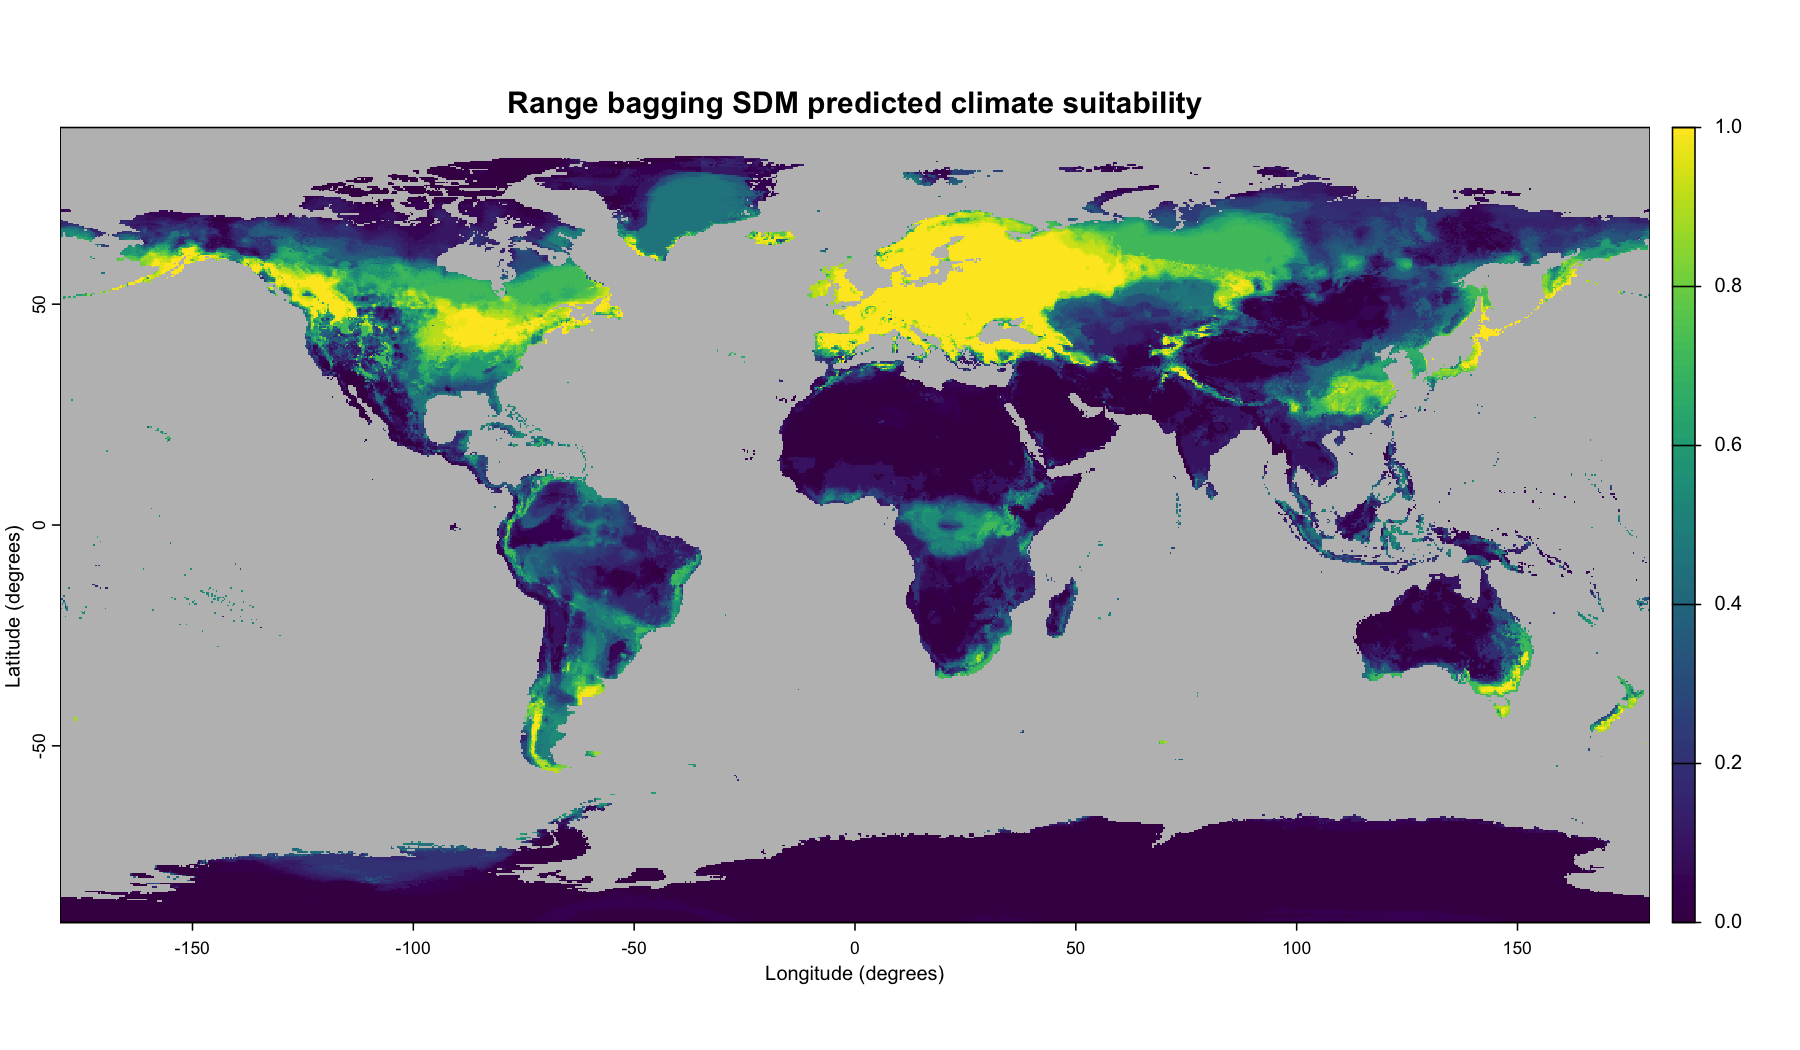
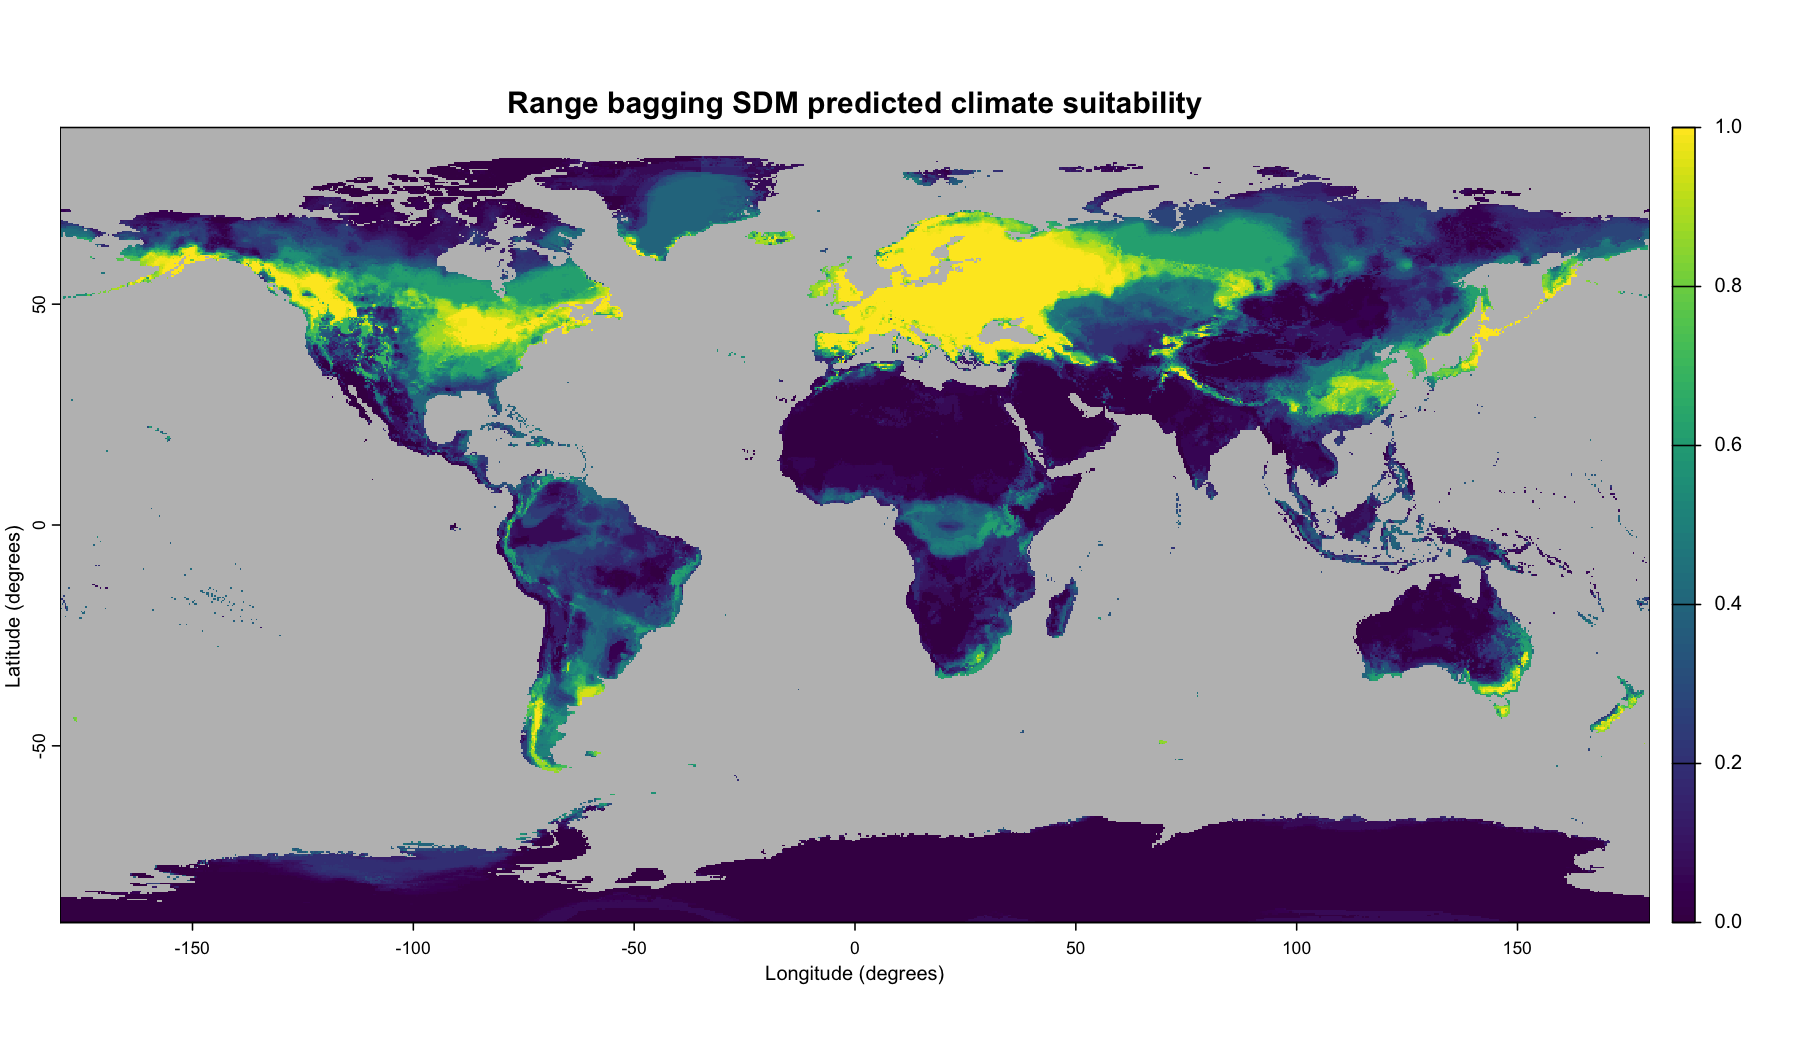
Add extrapolation info to README

diff --git a/README.md b/README.md
@@ -1,27 +1,30 @@
+---
+output: github_document
+---
 
 <!-- README.md is generated from README.Rmd. Please edit that file -->
+
+
 
 # bssdm: Biosecurity Species Distribution Modelling
 
 <!-- badges: start -->
-
-[![Last
-commit](https://img.shields.io/github/last-commit/cebra-analytics/bssdm.svg)](https://github.com/cebra-analytics/bssdm/commits/main)
+[![Last commit](https://img.shields.io/github/last-commit/cebra-analytics/bssdm.svg)](https://github.com/cebra-analytics/bssdm/commits/main)
 <!-- badges: end -->
 
-The *bssdm* package provides Species Distribution Modelling (SDM)
-implementations for two presence-only methods for predicting the spatial
-distribution environmental suitability for exotic pests, diseases, and
-other biosecurity threats, utilising spatial species occurrence records
-and their corresponding environmental variables. The two methods are:
+The *bssdm* package provides Species Distribution Modelling (SDM) implementations for two presence-only methods for predicting the spatial distribution environmental suitability for exotic pests, diseases, and other biosecurity threats, utilising spatial species occurrence records and their corresponding environmental variables. The two SDM methods are:
 
-1.  *Range bagging* (Drake, 2015)
-2.  *Climatch* (ABARES, 2020)
+1. *Range bagging* (Drake, 2015)
+1. *Climatch* (ABARES, 2020)
+
+The package also provides two tools for assessing environmental novelty in the projection area relative to the species occurrence locations used to build a model:
+
+1. *MESS* — Multivariate Environmental Similarity Surface (Elith et al., 2010)
+1. *ExDet* — Extrapolation Detection (Mesgaran et al., 2014)
 
 ## Installation
 
-You can install the latest version of *bssdm* from
-[GitHub](https://github.com/) with:
+You can install the latest version of *bssdm* from [GitHub](https://github.com/) with:
 
 ``` r
 remotes::install_github("cebra-analytics/bssdm")
@@ -29,19 +32,12 @@ remotes::install_github("cebra-analytics/bssdm")
 
 ## Example
 
-The following example generates the environmental suitability for a
-Hawkweed species (*Hieracium pilosella*), an exotic weed for Australia,
-using both the *bssdm* package *Range bagging* and *Climatch* method
-implementations.
+The following example generates the environmental suitability for a Hawkweed species (*Hieracium pilosella*), an exotic weed for Australia, using both the *bssdm* package *Range bagging* and *Climatch* method implementations.
 
 ### Step 1: Obtain environmental variables
 
-The SDM requires spatial environmental data in the form of *GeoTIFF*
-raster layers for the area of interest, encapsulating the species
-occurrence records (to build the model), as well as locations where the
-predicted environmental suitability is desired. Here we will use a
-selection of global climate data from *WorldClim* (Fick & Hijmans, 2017;
-<http://www.worldclim.org>).
+The SDM requires spatial environmental data in the form of *GeoTIFF* raster layers for the area of interest, encapsulating the species occurrence records (to build the model), as well as locations where the predicted environmental suitability is desired. Here we will use a selection of global climate data from *WorldClim* (Fick & Hijmans, 2017; <http://www.worldclim.org>).
+
 
 ``` r
 # Climate WorldClim (BIOCLIM) data
@@ -70,16 +66,10 @@ climate_rast
 
 ### Step 2: Obtain species occurrence records
 
-The SDM requires species occurrence records to be specified in a table
-with latitude and longitude coordinates using the WGS84 coordinate
-reference system (CRS). Here we will use global Hawkweed (*Hieracium
-pilosella*) occurrences downloaded from Global Biodiversity Information
-Facility (GBIF, 2026).
+The SDM requires species occurrence records to be specified in a table with latitude and longitude coordinates using the WGS84 coordinate reference system (CRS). Here we will use global Hawkweed (*Hieracium pilosella*) occurrences downloaded from Global Biodiversity Information Facility (GBIF, 2026).
 
-It is recommended to firstly ‘clean’ occurrence records to remove
-duplicates and incomplete or incorrect records via a tool such as
-*CoordinateCleaner* (Zizka et al., 2019). We will use occurrence records
-that were cleaned via *CoordinateCleaner*.
+It is recommended to firstly 'clean' occurrence records to remove duplicates and incomplete or incorrect records via a tool such as *CoordinateCleaner* (Zizka et al., 2019). We will use occurrence records that were cleaned via *CoordinateCleaner*.
+
 
 ``` r
 # Load cleaned Hawkweed (Hieracium pilosella) occurrences
@@ -100,19 +90,17 @@ terra::plot(terra::vect(occurrences_cleaned, crs = "EPSG:4326"),
             col = "red", pch = 20, alpha = 0.5, add = TRUE)
 ```
 
-<img src="man/figures/README-unnamed-chunk-3-1.png" width="100%" style="display: block; margin: auto;" />
+<div class="figure" style="text-align: center">
+<img src="man/figures/README-unnamed-chunk-3-1.png" alt="plot of chunk unnamed-chunk-3" width="100%" />
+<p class="caption">plot of chunk unnamed-chunk-3</p>
+</div>
 
 ### Step 3: Run the SDM
 
-To run a SDM we first build a model, then use it to predict the
-suitability for the area of interest using climate data with matching
-variables. Although this climate data may differ in its extent, CRS,
-resolution, or time frame (e.g. past or future climate), here we reuse
-the climate data used to build the model. We will build models and
-predict suitability for both our *Range bagging* and *Climatch* SDM
-methods.
+To run a SDM we first build a model, then use it to predict the suitability for the area of interest using climate data with matching variables. Although this climate data may differ in its extent, CRS, resolution, or time frame (e.g. past or future climate), here we reuse the climate data used to build the model. We will build models and predict suitability for both our *Range bagging* and *Climatch* SDM methods.
 
 #### Range bagging SDM
+
 
 ``` r
 # Run Range bagging SDM
@@ -124,9 +112,13 @@ terra::plot(rangebag_output, colNA = "grey",
             xlab = "Longitude (degrees)", ylab = "Latitude (degrees)")
 ```
 
-<img src="man/figures/README-unnamed-chunk-4-1.png" width="100%" style="display: block; margin: auto;" />
+<div class="figure" style="text-align: center">
+<img src="man/figures/README-unnamed-chunk-4-1.png" alt="plot of chunk unnamed-chunk-4" width="100%" />
+<p class="caption">plot of chunk unnamed-chunk-4</p>
+</div>
 
 #### Climatch SDM
+
 
 ``` r
 # Run Climatch SDM
@@ -138,28 +130,109 @@ terra::plot(climatch_output, colNA = "grey",
             xlab = "Longitude (degrees)", ylab = "Latitude (degrees)")
 ```
 
-<img src="man/figures/README-unnamed-chunk-5-1.png" width="100%" style="display: block; margin: auto;" />
+<div class="figure" style="text-align: center">
+<img src="man/figures/README-unnamed-chunk-5-1.png" alt="plot of chunk unnamed-chunk-5" width="100%" />
+<p class="caption">plot of chunk unnamed-chunk-5</p>
+</div>
+
+### Step 4: Assess environmental novelty
+
+Correlative SDMs identify statistical relationships between occurrence patterns and spatial environmental data to estimate the suitability of a location given its environment. Such models are powerful in that relationships estimated from one region (e.g., a species' native range) can be used to infer suitability in another region of interest. However, the projection region may have environmental conditions not represented in the model-fitting data — either because a variable is outside its model-fitting range, or because multiple variables combine to produce novel conditions — leading to model extrapolation.
+
+Model extrapolation can reduce prediction reliability, so it is important to understand the spatial distribution of novel environmental conditions so that model outputs can be interpreted appropriately. *bssdm* provides two tools for this purpose: *ExDet* (Mesgaran et al., 2014) and *MESS* (Elith et al., 2010).
+
+Both functions require a reference dataset: the climate values extracted at the species occurrence locations used to build the model.
+
+
+``` r
+# Extract climate values at occurrence locations (reference data for novelty assessment)
+ref_data <- terra::extract(climate_rast,
+                           terra::vect(occurrences_cleaned, crs = "EPSG:4326"),
+                           ID = FALSE)
+```
+
+#### MESS
+
+The Multivariate Environmental Similarity Surface (MESS; Elith et al., 2010) quantifies how similar each location's environmental conditions are to the reference (occurrence) data. Positive values indicate conditions within the reference range; negative values indicate novel (dissimilar) conditions. The `mess()` function also returns the most dissimilar variable (MoD) and most similar variable (MoS) for each location.
+
+
+``` r
+# Calculate MESS
+mess_output <- bssdm::mess(climate_rast, ref_data, full = TRUE)
+```
+
+
+``` r
+plot(mess_output)
+```
+
+<div class="figure" style="text-align: center">
+<img src="man/figures/README-unnamed-chunk-8-1.png" alt="plot of chunk unnamed-chunk-8" width="100%" />
+<p class="caption">plot of chunk unnamed-chunk-8</p>
+</div>
+
+
+``` r
+plot(mess_output, which = "mod")
+```
+
+<div class="figure" style="text-align: center">
+<img src="man/figures/README-unnamed-chunk-9-1.png" alt="plot of chunk unnamed-chunk-9" width="100%" />
+<p class="caption">plot of chunk unnamed-chunk-9</p>
+</div>
+
+#### ExDet
+
+The Extrapolation Detection tool (ExDet; Mesgaran et al., 2014) distinguishes between two types of environmental novelty. Type 1 (univariate) novelty occurs when one or more variables fall outside their reference range; Type 2 (multivariate) novelty occurs when the combination of variables is unusual even if individual variables are within range. The `exdet()` function returns a score where values less than 0 indicate Type 1 novelty, values between 0 and 1 indicate analog conditions, and values greater than 1 indicate Type 2 novelty.
+
+
+``` r
+# Calculate ExDet with most influential covariates
+exdet_output <- bssdm::exdet(climate_rast, ref_data, mic = TRUE)
+```
+
+
+``` r
+plot(exdet_output)
+```
+
+<div class="figure" style="text-align: center">
+<img src="man/figures/README-unnamed-chunk-11-1.png" alt="plot of chunk unnamed-chunk-11" width="100%" />
+<p class="caption">plot of chunk unnamed-chunk-11</p>
+</div>
+
+
+``` r
+plot(exdet_output, which = "mic1")
+```
+
+<div class="figure" style="text-align: center">
+<img src="man/figures/README-unnamed-chunk-12-1.png" alt="plot of chunk unnamed-chunk-12" width="100%" />
+<p class="caption">plot of chunk unnamed-chunk-12</p>
+</div>
+
+
+``` r
+plot(exdet_output, which = "mic2")
+```
+
+<div class="figure" style="text-align: center">
+<img src="man/figures/README-unnamed-chunk-13-1.png" alt="plot of chunk unnamed-chunk-13" width="100%" />
+<p class="caption">plot of chunk unnamed-chunk-13</p>
+</div>
 
 ## References
 
-ABARES (2020). ‘Climatch v2.0 User Manual’. Canberra.
-<https://climatch.cp1.agriculture.gov.au/> Accessed: November 2021.
+ABARES (2020). 'Climatch v2.0 User Manual'. Canberra. <https://climatch.cp1.agriculture.gov.au/> Accessed: November 2021.
 
-Drake, J. M. (2015). ‘Range bagging: a new method for ecological niche
-modelling from presence-only data’. *Journal of the Royal Society
-Interface*, 12(107), 20150086. <doi:10.1098/rsif.2015.0086>
+Drake, J. M. (2015). 'Range bagging: a new method for ecological niche modelling from presence-only data'. *Journal of the Royal Society Interface*, 12(107), 20150086. <doi:10.1098/rsif.2015.0086>
 
-Fick, S. E., Hijmans, R. J. (2017). ‘WorldClim 2: new 1-km spatial
-resolution climate surfaces for global land areas’. *International
-Journal of Climatology*, 37, 4302–4315. <doi:10.1002/joc.5086>
+Elith, J., Kearney, M., and Phillips, S. (2010). 'The art of modelling range-shifting species'. *Methods in Ecology and Evolution*, 1, 330–342. <doi:10.1111/j.2041-210X.2010.00036.x>
 
-GBIF.org (04 May 2026) ‘GBIF Occurrence Download’.
-<doi:10.15468/dl.q6q6fk>
+Fick, S. E., Hijmans, R. J. (2017). 'WorldClim 2: new 1-km spatial resolution climate surfaces for global land areas'. *International Journal of Climatology*, 37, 4302–4315. <doi:10.1002/joc.5086>
 
-Zizka, A., Silvestro, D., Andermann, T., Azevedo, J., Duarte Ritter, C.,
-Edler, D., Farooq, H., Herdean, A., Ariza, M., Scharn, R., Svanteson,
-S., Wengstrom, N., Zizka, V., & Antonelli, A. (2019).
-‘CoordinateCleaner: standardized cleaning of occurrence records from
-biological collection databases.’ *Methods in Ecology and Evolution*, 7.
-<doi:10.1111/2041-210X.13152>, R package version 3.0.1,
-<https://github.com/ropensci/CoordinateCleaner>.
+GBIF.org (04 May 2026) 'GBIF Occurrence Download'. <doi:10.15468/dl.q6q6fk>
+
+Mesgaran, M. B., Cousens, R. D., and Webber, B. L. (2014). 'Here be dragons: a tool for quantifying novelty due to covariate range and correlation change when projecting species distribution models'. *Diversity and Distributions*, 20(10), 1147–1159. <doi:10.1111/ddi.12209>
+
+Zizka, A., Silvestro, D., Andermann, T., Azevedo, J., Duarte Ritter, C., Edler, D., Farooq, H., Herdean, A., Ariza, M., Scharn, R., Svanteson, S., Wengstrom, N., Zizka, V., & Antonelli, A. (2019). 'CoordinateCleaner: standardized cleaning of occurrence records from biological collection databases.' *Methods in Ecology and Evolution*, 7. <doi:10.1111/2041-210X.13152>, R package version 3.0.1, <https://github.com/ropensci/CoordinateCleaner>.